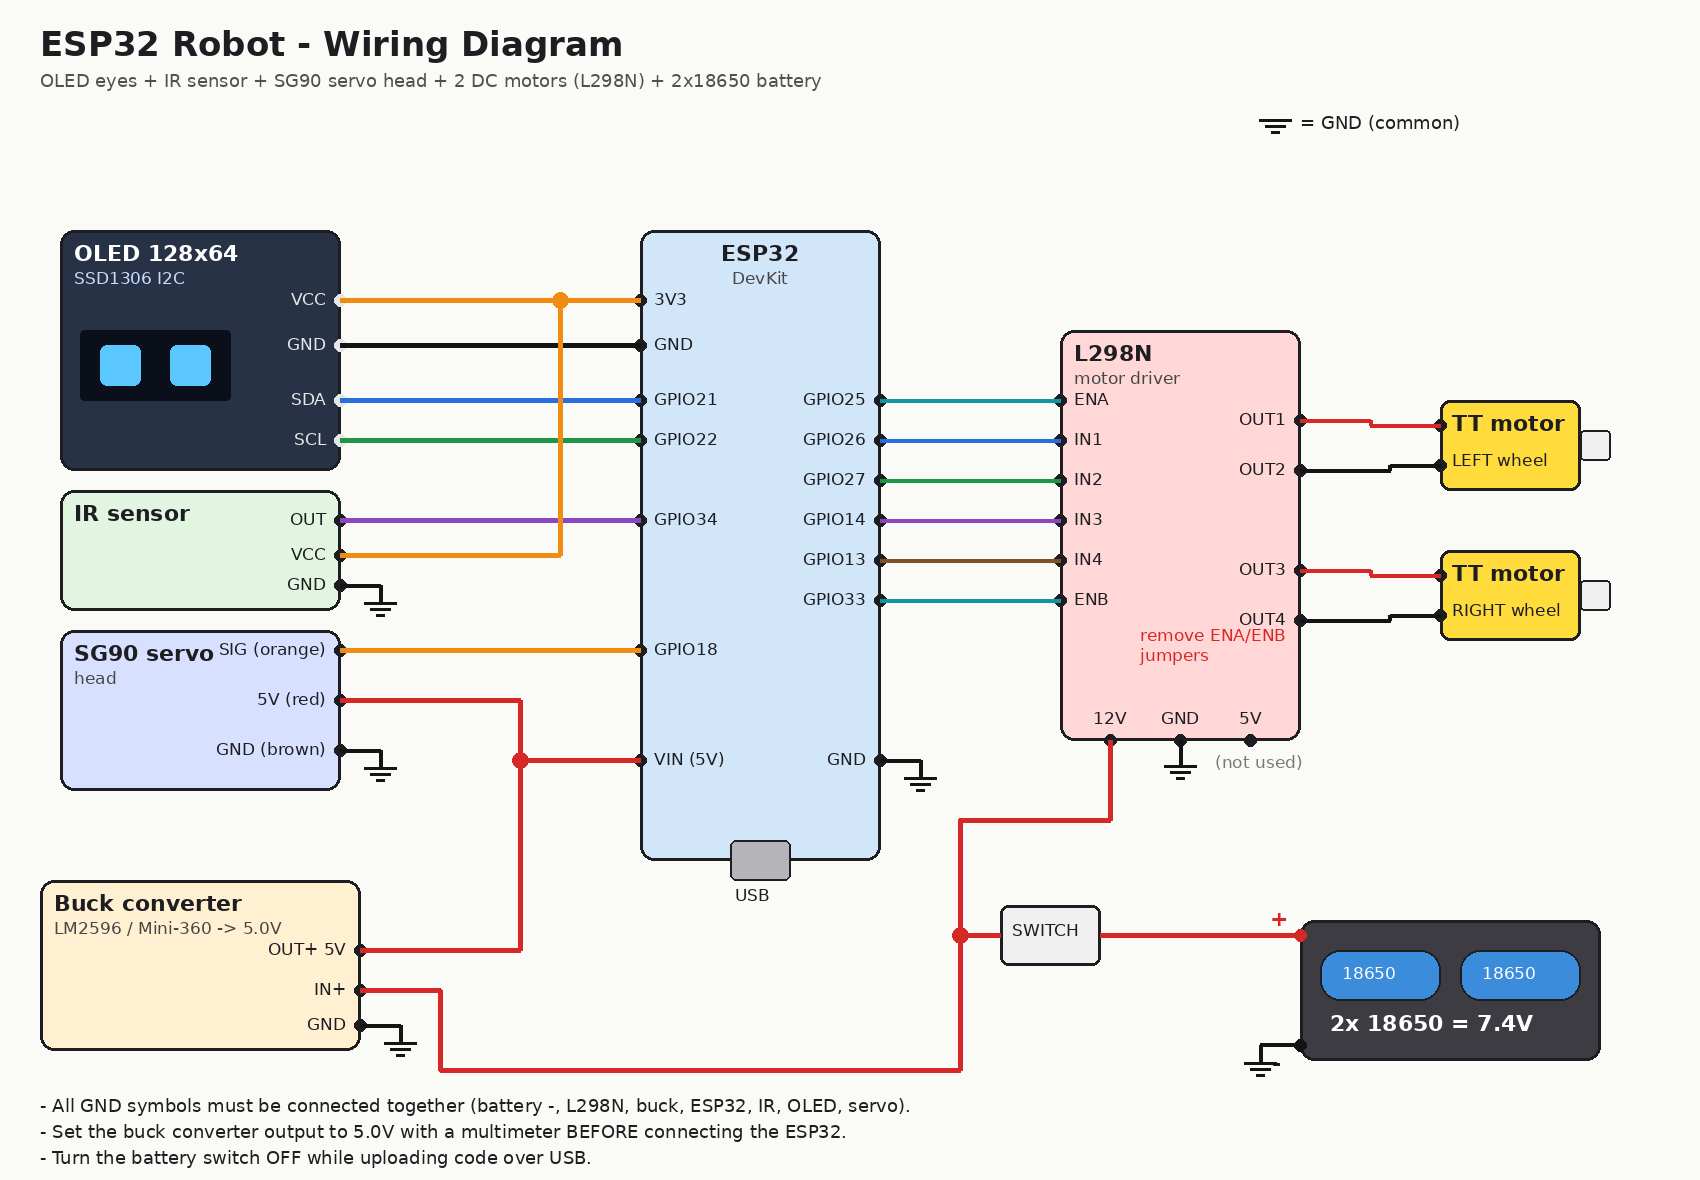
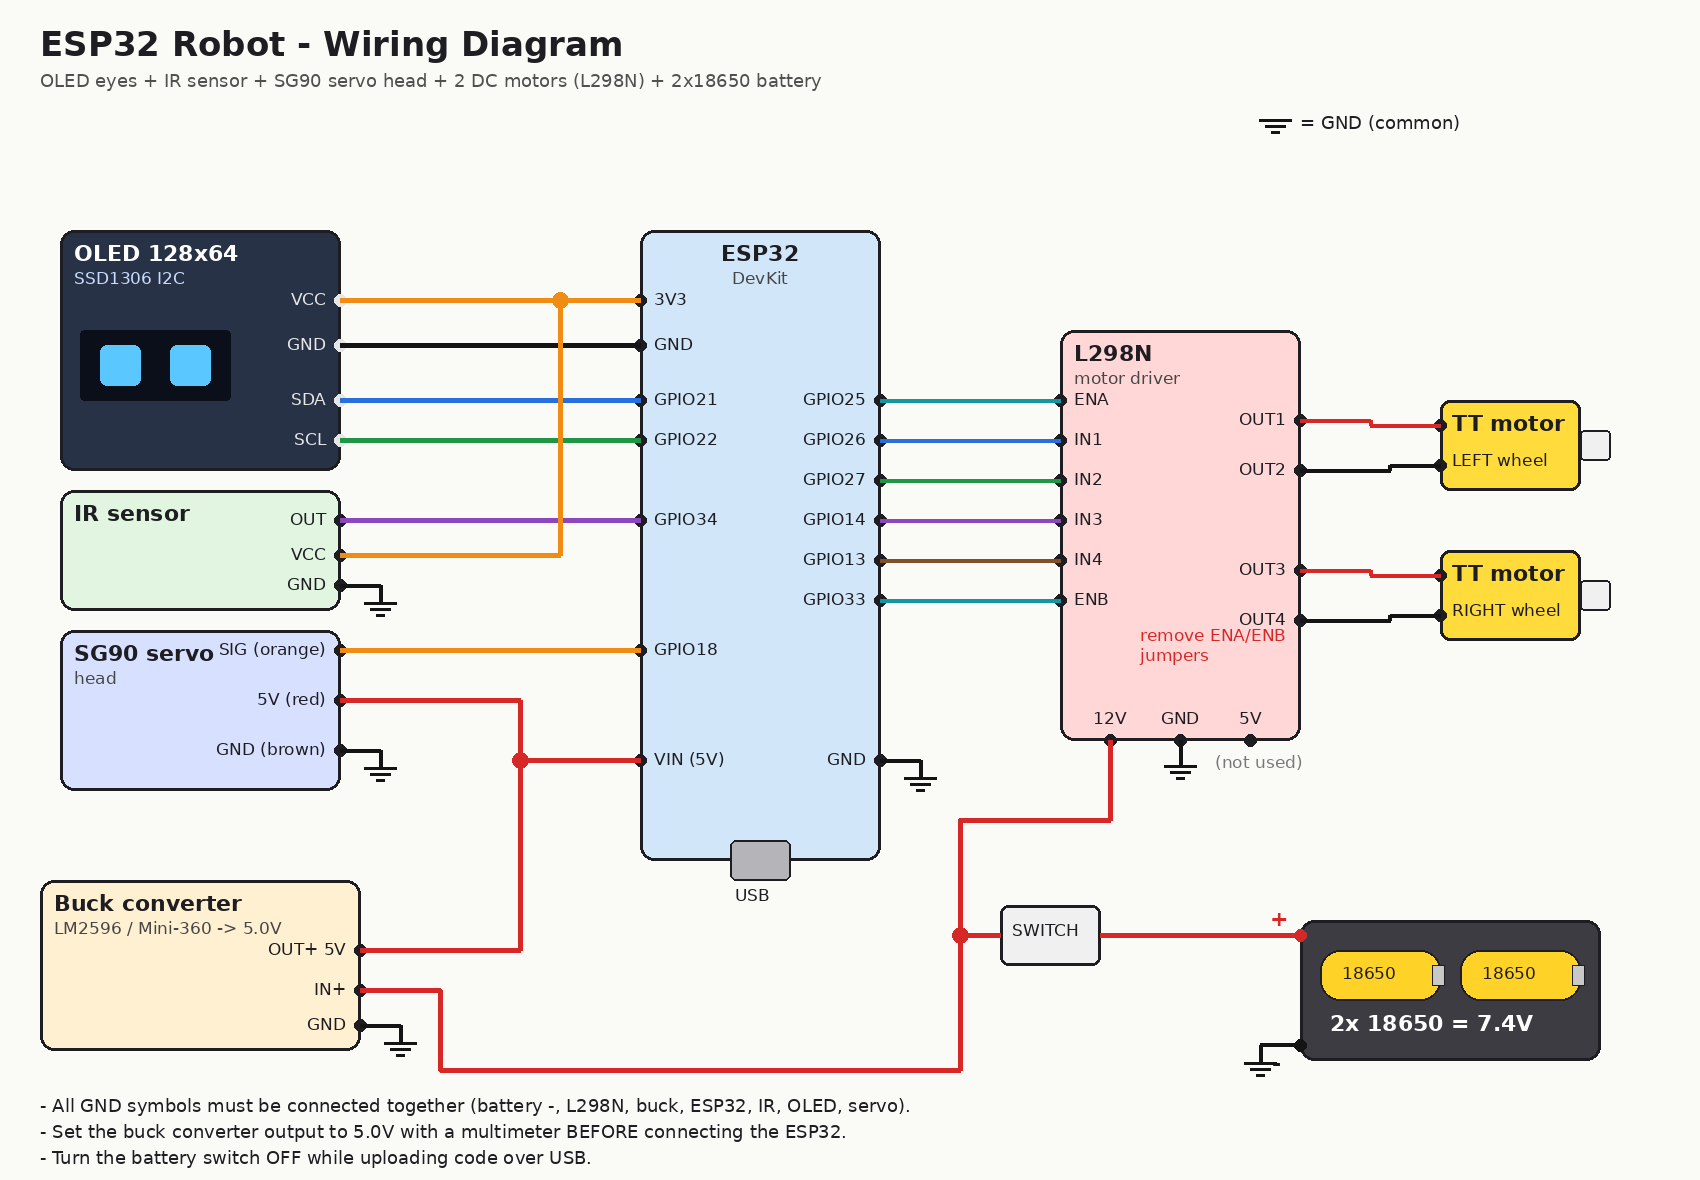
Draw the 18650 batteries in yellow in the wiring diagram
Claude-Session: https://claude.ai/code/session_01RdvTpuJ5TFFoVyr3yWNW6y

Changed region(s): [[0.7794, 0.7932, 0.9353, 0.8542]]

diff --git a/tools/draw_robot_wiring.py b/tools/draw_robot_wiring.py
@@ -190,8 +190,9 @@ wire([(LX1, 620), (1390, 620), (1390, 615), (1440, 615)], BLACK, 4)
 # ---------------- Battery + switch ----------------
 d.rounded_rectangle([1300, 920, 1600, 1060], radius=14, fill=(60, 60, 66), outline=INK, width=3)
 for i, x in enumerate((1320, 1460)):
-    d.rounded_rectangle([x, 950, x + 120, 1000], radius=20, fill=(60, 140, 220), outline=INK, width=2)
-    d.text((x + 22, 963), "18650", fill=(255, 255, 255), font=F_PIN)
+    d.rounded_rectangle([x, 950, x + 120, 1000], radius=20, fill=(255, 210, 40), outline=INK, width=2)
+    d.rectangle([x + 112, 965, x + 124, 985], fill=(200, 200, 200), outline=INK)
+    d.text((x + 22, 963), "18650", fill=INK, font=F_PIN)
 d.text((1330, 1010), "2x 18650 = 7.4V", fill=(255, 255, 255), font=F_BOX)
 d.ellipse([1300 - 6, 935 - 6, 1300 + 6, 935 + 6], fill=RED)
 d.text((1270, 905), "+", fill=RED, font=F_BOX)
